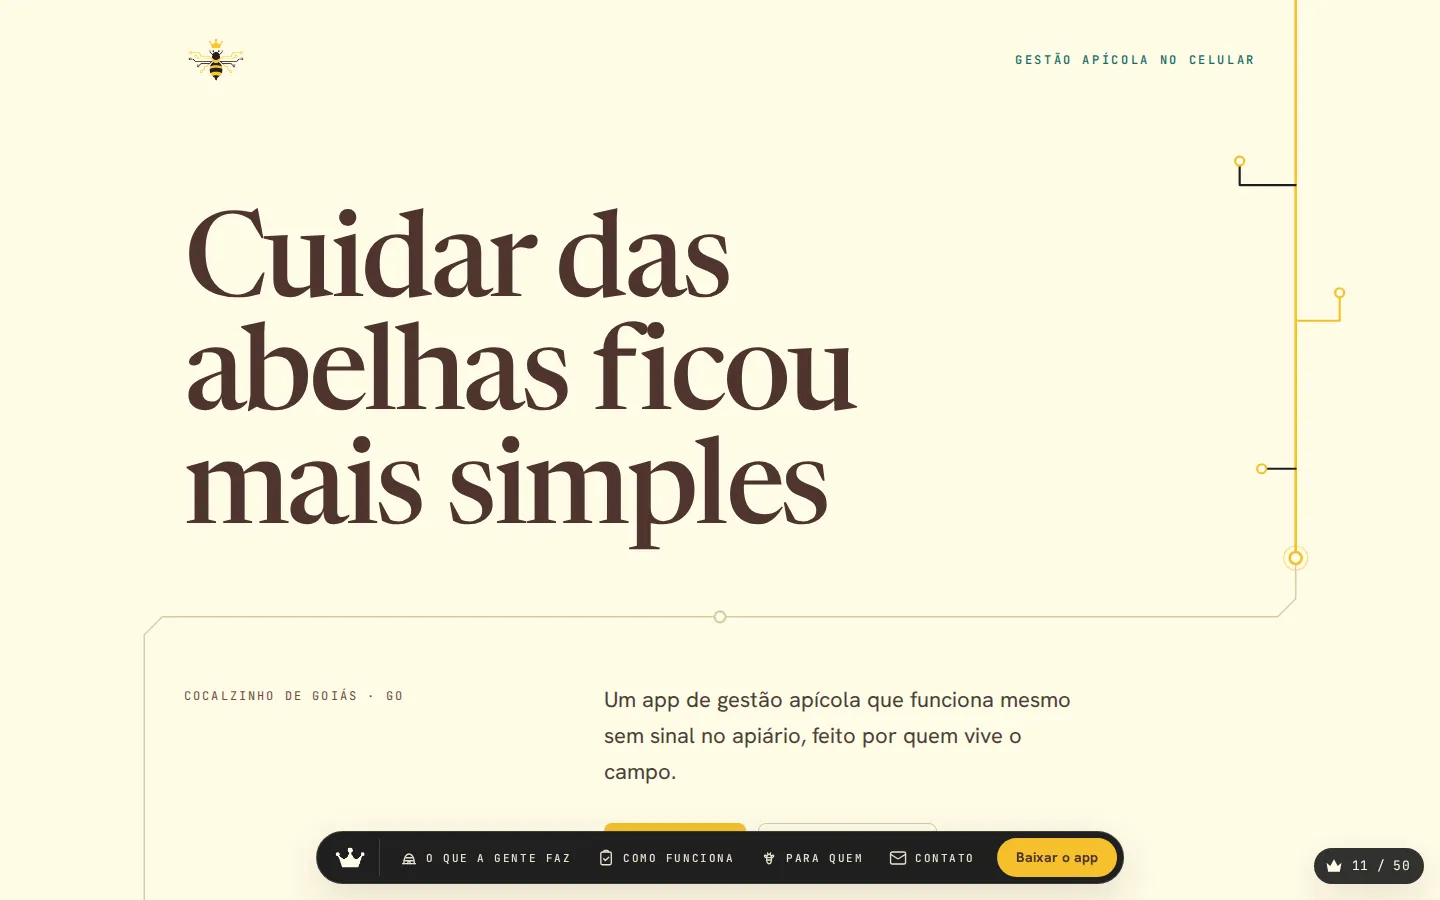
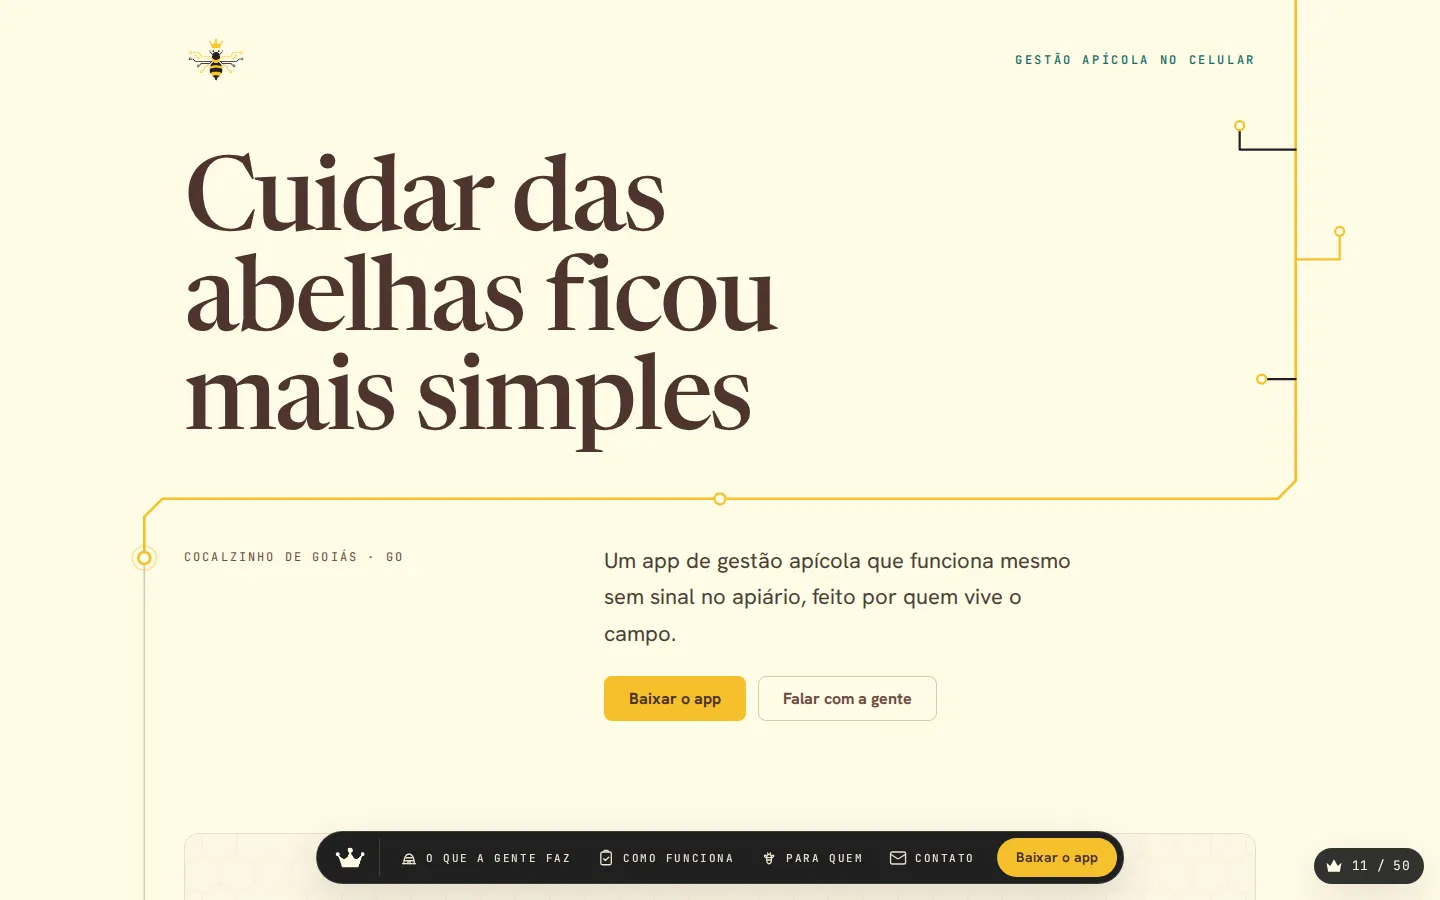
Corrige acessibilidade da navegação, folga do hero e anéis terminais (11, 13, 14, 15)

diff --git a/templates/11-trilha.html b/templates/11-trilha.html
@@ -93,7 +93,11 @@
     .pilula__item:hover, .pilula__item.ativo { color: var(--mel); background: rgba(255, 251, 230, .06); }
     .pilula .dr-btn { margin-left: 8px; padding: 10px 18px; font-size: var(--fs-small); border-radius: var(--r-pill); white-space: nowrap; }
     .pilula__progresso { position: absolute; left: 0; top: 0; height: 2px; width: 100%; background: var(--mel); transform-origin: left center; transform: scaleX(0); }
-    @media (max-width: 1099px) { .pilula__item span { display: none; } .pilula__item { padding: 10px; } }
+    /* Só ícone: o rótulo vira sr-only e o link mantém o nome acessível. */
+    @media (max-width: 1099px) {
+      .pilula__item span { position: absolute; width: 1px; height: 1px; padding: 0; margin: -1px; overflow: hidden; clip: rect(0, 0, 0, 0); white-space: nowrap; border: 0; }
+      .pilula__item { padding: 10px; }
+    }
     @media (max-width: 599px) {
       /* No celular a pílula se afasta da pílula do switcher (canto direito). */
       .pilula { left: 12px; transform: none; padding-left: 10px; }
@@ -109,17 +113,19 @@
     .marca { display: block; flex: none; }
     .marca img { width: 64px; height: 64px; }
     .hero__titulo {
-      margin-top: clamp(48px, 9vw, 120px);
-      font-size: clamp(46px, 8.2vw, 118px); line-height: .96; letter-spacing: -.03em;
+      margin-top: clamp(32px, 4.5vw, 64px);
+      font-size: clamp(46px, 7.2vw, 104px); line-height: .96; letter-spacing: -.03em;
       max-width: 11.5ch; text-wrap: balance;
     }
-    .trilha-ancora { height: 2px; margin-block: clamp(36px, 5vw, 64px); }
+    .trilha-ancora { height: 2px; margin-block: clamp(28px, 3vw, 44px); }
     .hero__baixo { display: grid; grid-template-columns: minmax(0, 4fr) minmax(0, 7fr); gap: var(--sp-7); align-items: start; }
     .hero__coord { display: grid; gap: var(--sp-2); padding-top: 6px; }
     .hero__coord span { font-family: var(--mono); font-size: var(--fs-eyebrow); letter-spacing: .18em; text-transform: uppercase; color: var(--terra); }
     .hero__baixo .dr-body-lg { font-size: clamp(18px, 1.6vw, 22px); max-width: 40ch; color: var(--corpo); }
-    .acoes { display: flex; flex-wrap: wrap; gap: var(--sp-3); margin-top: var(--sp-6); }
-    .hero__foto { margin-top: clamp(56px, 7vw, 96px); position: relative; }
+    .acoes { display: flex; flex-wrap: wrap; gap: var(--sp-3); margin-top: var(--sp-5); }
+    /* Folga para a pílula fixa (≈72px + 16px) nunca cobrir as ações do hero ao rolar até elas. */
+    .hero .acoes { scroll-margin-bottom: 104px; padding-bottom: var(--sp-2); }
+    .hero__foto { margin-top: 104px; position: relative; }
     .hero__foto img { width: 100%; height: auto; aspect-ratio: 16 / 7; object-fit: cover; border-radius: var(--r-lg); border: var(--bd); background: var(--creme-papel); }
     .hero__foto figcaption { display: flex; gap: var(--sp-3); align-items: baseline; margin-top: var(--sp-3); }
     .hero__foto figcaption::before { content: ""; flex: none; width: 24px; height: 2px; background: var(--mel); transform: translateY(-4px); }

diff --git a/templates/15-esquema.html b/templates/15-esquema.html
@@ -100,12 +100,14 @@
     .pontos a::before { content: ""; width: 10px; height: 10px; border-radius: 50%; border: 1.5px solid var(--bp); background: var(--creme-papel); transition: transform .2s ease, border-color .2s ease; }
     .pontos a::after { content: ""; position: absolute; width: 20px; height: 1px; background: transparent; }
     .pontos a.ativo::before { border-color: var(--terra-escura); border-width: 2px; transform: scale(1.35); box-shadow: 0 0 0 3px var(--mel-claro); }
+    /* Rótulo oculto pelo padrão sr-only (mantém o nome acessível); aparece no hover/foco. */
     .pontos a span {
-      display: none; position: absolute; right: 30px; top: 50%; transform: translateY(-50%); white-space: nowrap;
-      padding: 4px 10px; background: var(--grafite); color: var(--creme); border-radius: var(--r-sm);
+      position: absolute; right: 30px; top: 50%; transform: translateY(-50%); white-space: nowrap;
+      width: 1px; height: 1px; padding: 0; margin: -1px; overflow: hidden; clip: rect(0, 0, 0, 0); border: 0;
+      background: var(--grafite); color: var(--creme); border-radius: var(--r-sm);
       font-family: var(--mono); font-size: 11px; letter-spacing: .12em; text-transform: uppercase;
     }
-    .pontos a:hover span, .pontos a:focus-visible span { display: block; }
+    .pontos a:hover span, .pontos a:focus-visible span { width: auto; height: auto; margin: 0; padding: 4px 10px; overflow: visible; clip: auto; }
 
     /* ---------- Hero: folha de rosto com carimbo ---------- */
     .hero .folha { min-height: min(92vh, 860px); display: grid; grid-template-rows: auto 1fr auto; gap: var(--sp-6); }
@@ -239,14 +241,14 @@
   <!-- SEÇÃO: nav (N6 · pontos laterais, um por seção) -->
   <nav data-secao="nav" class="pontos">
     <a href="#inicio"><span data-c="hero.eyebrow"></span></a>
-    <a href="#prova"><span data-c="prova.stats[1].rotulo"></span></a>
+    <a href="#prova" aria-label="Números"></a>
     <a href="#problema"><span data-c="problema.eyebrow"></span></a>
     <a href="#funcionalidades"><span data-c="funcionalidades.eyebrow"></span></a>
     <a href="#como-funciona"><span data-c="comoFunciona.eyebrow"></span></a>
     <a href="#para-quem"><span data-c="paraQuem.eyebrow"></span></a>
     <a href="#tecnologia"><span data-c="tecnologia.eyebrow"></span></a>
     <a href="#equipe"><span data-c="equipe.eyebrow"></span></a>
-    <a href="#depoimento"><span data-c="depoimento.nome"></span></a>
+    <a href="#depoimento" aria-label="Depoimento"></a>
     <a href="#contato"><span data-c="contato.eyebrow"></span></a>
   </nav>
 

diff --git a/templates/13-nos.html b/templates/13-nos.html
@@ -199,7 +199,7 @@
 
   <!-- SEÇÃO: nav (N4 · hambúrguer que abre overlay em tela cheia) -->
   <nav data-secao="nav">
-    <button class="menu-botao" type="button" aria-expanded="false" aria-controls="menu"><span></span><span></span><span></span></button>
+    <button class="menu-botao" type="button" aria-label="Menu" aria-expanded="false" aria-controls="menu"><span></span><span></span><span></span></button>
     <div class="menu" id="menu" hidden>
       <div class="dr-container menu__in">
         <a class="menu__marca" href="#inicio"><img src="../img/logos/logo-negativa.png" alt="" data-c-alt="marca.alt" width="72" height="72"></a>
@@ -543,15 +543,22 @@
         var botao = document.querySelector('.menu-botao');
         var menu = document.getElementById('menu');
         var animarMenu = null;
-        function abrir(sim) {
+        // aria-expanded acompanha o overlay; ao abrir o foco vai ao primeiro link, ao fechar volta ao botão.
+        function abrir(sim, devolverFoco) {
           botao.setAttribute('aria-expanded', sim ? 'true' : 'false');
           document.documentElement.style.overflow = sim ? 'hidden' : '';
-          if (animarMenu) { animarMenu(sim); return; }
-          menu.hidden = !sim;
+          if (animarMenu) animarMenu(sim); else menu.hidden = !sim;
+          if (sim) {
+            var primeiro = menu.querySelector('ol a');
+            if (primeiro) primeiro.focus({ preventScroll: true });
+          } else if (devolverFoco !== false) {
+            botao.focus({ preventScroll: true });
+          }
         }
-        botao.addEventListener('click', function () { abrir(menu.hidden); });
-        menu.querySelectorAll('a').forEach(function (a) { a.addEventListener('click', function () { abrir(false); }); });
-        document.addEventListener('keydown', function (e) { if (e.key === 'Escape' && !menu.hidden) { abrir(false); botao.focus(); } });
+        botao.addEventListener('click', function () { abrir(botao.getAttribute('aria-expanded') !== 'true'); });
+        // Ao seguir um link, o foco acompanha a âncora (não volta ao botão).
+        menu.querySelectorAll('a').forEach(function (a) { a.addEventListener('click', function () { abrir(false, false); }); });
+        document.addEventListener('keydown', function (e) { if (e.key === 'Escape' && botao.getAttribute('aria-expanded') === 'true') abrir(false); });
 
         /* ---- Movimento: só com GSAP e sem pedido de movimento reduzido ---- */
         if (!window.gsap || !window.ScrollTrigger) return;

diff --git a/templates/14-sinal.html b/templates/14-sinal.html
@@ -581,8 +581,10 @@
           var d = caminho(rt.pts, 14);
           svg.appendChild(svgEl('path', { d: d, class: 't-base' }));
           svg.appendChild(svgEl('path', { d: d, class: 't-' + rt.cor }));
-          var u = rt.pts[rt.pts.length - 1], p0 = rt.pts[0];
-          svg.appendChild(svgEl('circle', { cx: p0.x, cy: p0.y, r: 4.5, stroke: rt.cor === 'mel' ? '#F5C02C' : '#202020' }));
+          // Anéis terminais nas duas pontas (fora das bordas dos cartões).
+          var u = rt.pts[rt.pts.length - 1], p0 = rt.pts[0], corNo = rt.cor === 'mel' ? '#F5C02C' : '#202020';
+          svg.appendChild(svgEl('circle', { cx: p0.x, cy: p0.y, r: 4.5, stroke: corNo }));
+          svg.appendChild(svgEl('circle', { cx: u.x, cy: u.y, r: 4.5, stroke: corNo }));
           for (var k = 0; k < (rt.n || 2); k++) {
             var el = antigos[pulsos.length] || document.createElement('span');
             el.className = 'pulso' + (rt.cor === 'grafite' ? ' pulso--grafite' : '');
@@ -608,13 +610,13 @@
           var o = i - (N - 1) / 2;
           var a, b, m;
           if (!vertical) {
-            a = { x: ap.right - c.left, y: ap.top - c.top + ap.height / 2 + o * 30 };
-            b = { x: ce.left - c.left, y: ce.top - c.top + ce.height / 2 + o * 46 };
+            a = { x: ap.right - c.left + 14, y: ap.top - c.top + ap.height / 2 + o * 30 };
+            b = { x: ce.left - c.left - 14, y: ce.top - c.top + ce.height / 2 + o * 46 };
             m = a.x + (b.x - a.x) * (.28 + i * .14);
             rotas.push({ pts: [a, { x: m, y: a.y }, { x: m, y: b.y }, b], cor: i < 2 ? 'mel' : 'grafite', n: 2, dur: 2.6 + i * .35 });
           } else {
-            a = { x: ap.left - c.left + ap.width / 2 + o * 44, y: ap.bottom - c.top };
-            b = { x: ce.left - c.left + ce.width / 2 + o * 30, y: ce.top - c.top };
+            a = { x: ap.left - c.left + ap.width / 2 + o * 44, y: ap.bottom - c.top + 14 };
+            b = { x: ce.left - c.left + ce.width / 2 + o * 30, y: ce.top - c.top - 14 };
             m = a.y + (b.y - a.y) * (.25 + i * .15);
             rotas.push({ pts: [a, { x: a.x, y: m }, { x: b.x, y: m }, b], cor: o > 0 ? 'mel' : 'grafite', n: 1, dur: 2 + i * .3 });
           }
